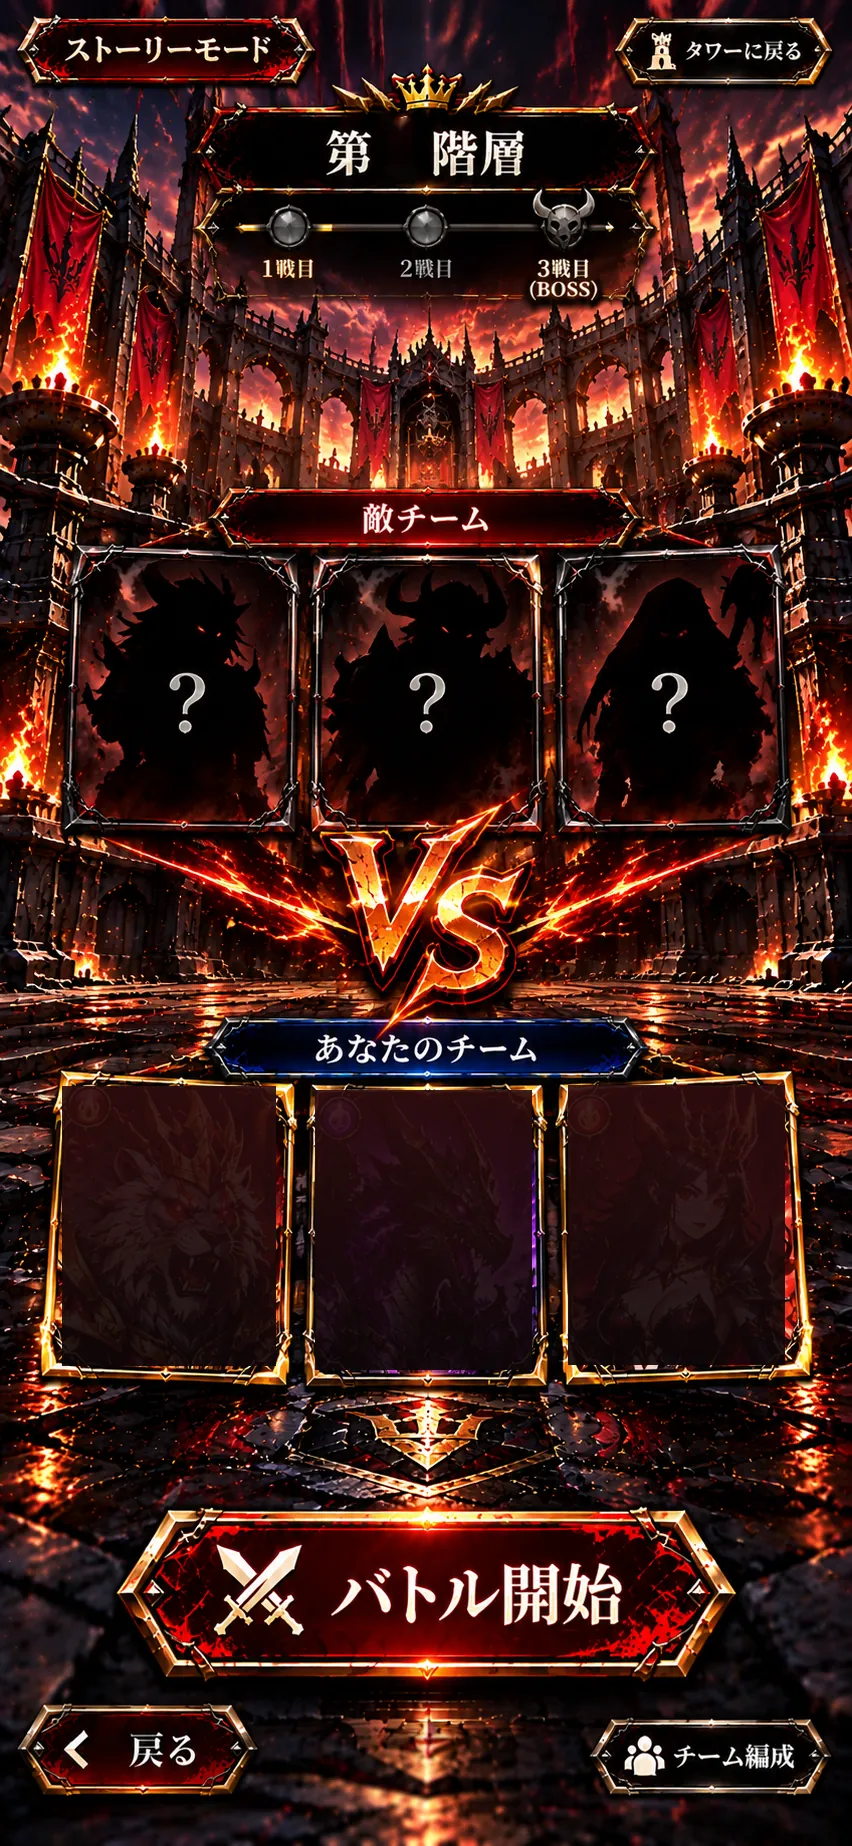
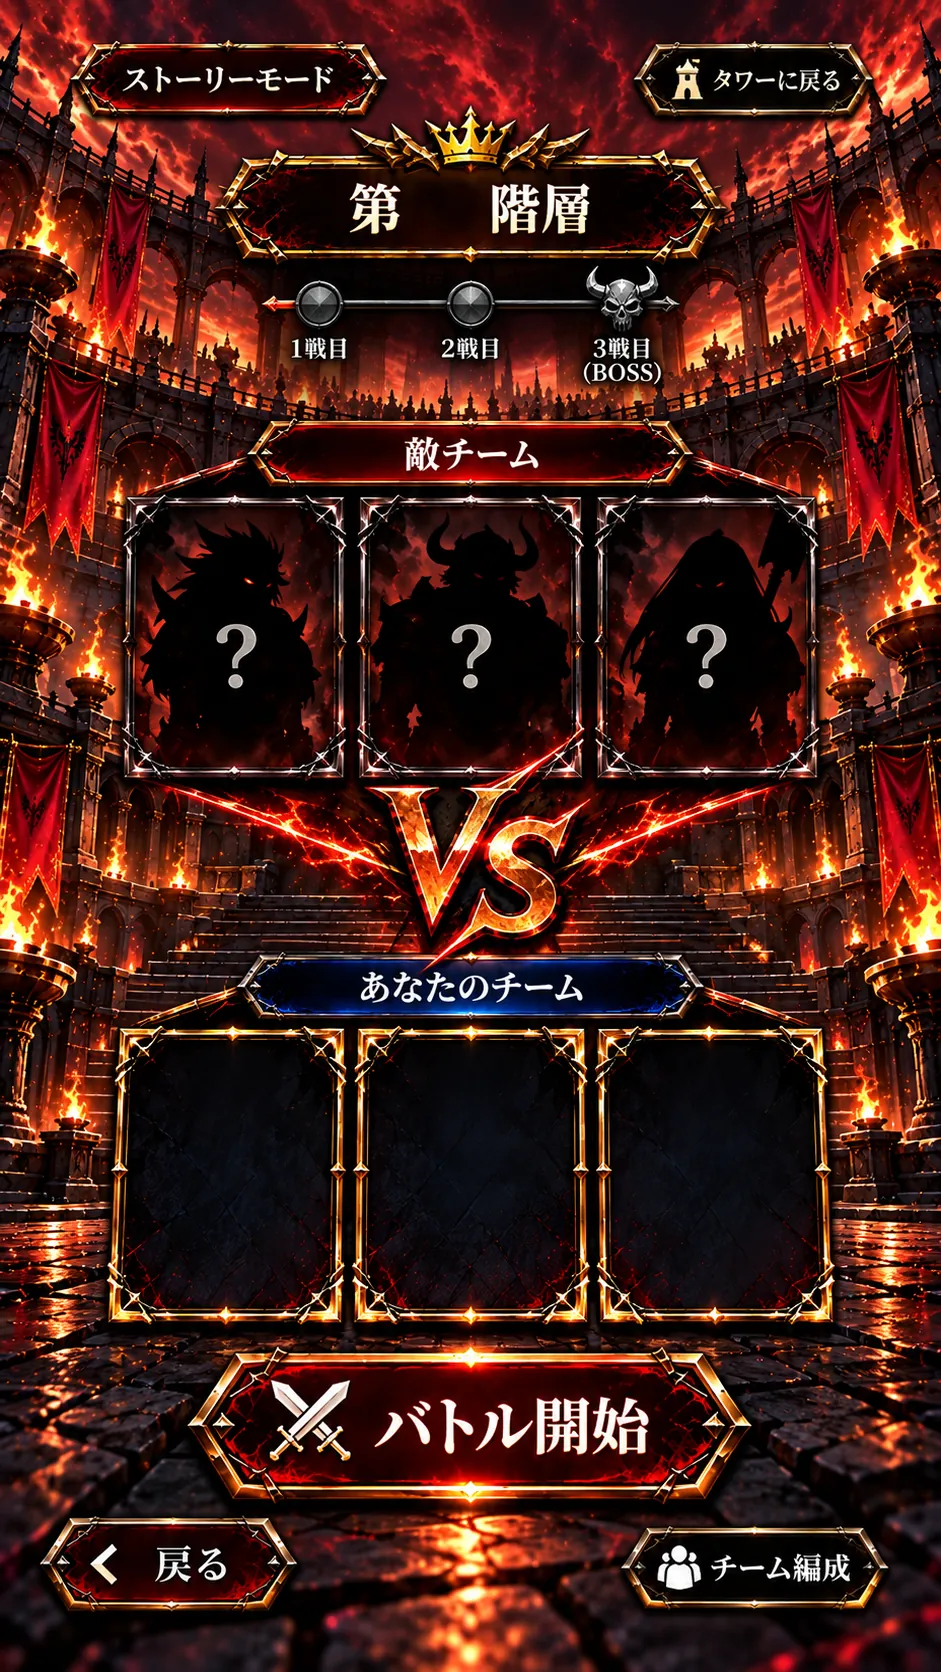
MYTHCLASH: 階の画面（進行画面）の絵を企画者の新しい絵（9:16）に差しかえ
- 前の絵と make_floor.py は design/mythclash/unused/ に残した
- 数字・光った玉・自分のデッキの位置を新しい絵に合わせた

Claude-Session: https://claude.ai/code/session_01MXithgTc5umkveoyZShZHQ

diff --git a/src/scenes/MythFloorScene.ts b/src/scenes/MythFloorScene.ts
@@ -11,32 +11,32 @@ import { canvasTextureOnce, UI_FONT } from '../ui/paint';
 import { fillSize, watchViewport } from '../ui/viewport';
 
 /**
- * 企画者の「階に入ったときの画面」の絵(design/mythclash/floor.png・852x1846。2026-10-27)。
- * make_floor.py で「第1階層」の数字・1戦目の光った玉・見本のカードを消した背景(floor.webp)と、光った玉(floor_parts.webp)を作る
+ * 企画者の「階に入ったときの画面」の絵(design/mythclash/floor.png・941x1672(9:16)。2026-10-27 に新しい絵へ差しかえ。前の絵は unused/)。
+ * 新しい絵は「第　階層」の数字が空いていて、玉は光っておらず、あなたのチームの枠は空。make_floor.py で背景(floor.webp)と、光った玉(floor_parts.webp・前の絵の玉)を作る
  */
 export const MYTH_FLOOR_IMAGE = 'myth:floor';
 export const MYTH_FLOOR_FILE = 'assets/mythclash/floor.webp';
 export const MYTH_FLOOR_ORB = 'myth:floorOrb';
 export const MYTH_FLOOR_ORB_FILE = 'assets/mythclash/floor_parts.webp';
-const ART = { w: 852, h: 1846 };
+const ART = { w: 941, h: 1672 };
 const PORTRAIT = { w: 720, h: 1280 };
 /** 絵の座標 */
-const DIGIT = { x: 401, y: 153 };
+const DIGIT = { x: 432, y: 210 };
 const NODES = [
-  { x: 288, y: 222 },
-  { x: 425, y: 222 },
-  { x: 562, y: 218 },
+  { x: 320, y: 303 },
+  { x: 470, y: 303 },
+  { x: 625, y: 300 },
 ];
 const SLOTS = [
-  [62, 1086, 276, 1366],
-  [315, 1090, 532, 1370],
-  [568, 1085, 785, 1365],
+  [125, 1040, 337, 1305],
+  [368, 1040, 580, 1305],
+  [610, 1040, 822, 1305],
 ] as const;
 const ZONES = {
-  start: [120, 1510, 735, 1680],
-  back: [20, 1705, 255, 1795],
-  team: [590, 1718, 830, 1795],
-  tower: [612, 14, 832, 86],
+  start: [200, 1355, 745, 1490],
+  back: [45, 1515, 290, 1610],
+  team: [625, 1525, 885, 1610],
+  tower: [640, 45, 870, 115],
 } as const;
 const SERIF = '"Hiragino Mincho ProN", "Yu Mincho", "Noto Serif JP", serif';
 const cardKey = (id: number) => `mc:card:${id}`;
@@ -73,8 +73,8 @@ export class MythFloorScene extends Phaser.Scene {
     this.scale.setGameSize(size.w, size.h);
     this.k = Math.max(size.w / ART.w, size.h / ART.h);
     this.ox = (size.w - ART.w * this.k) / 2;
-    // 画面いっぱい(企画者 2026-10-27「画面いっぱいでいい」)。上下が切れるときは、下のボタン・1階が残るように 上を多めに切る
-    this.oy = (size.h - ART.h * this.k) * 0.75;
+    // 画面いっぱい(企画者 2026-10-27「画面いっぱいでいい」)
+    this.oy = (size.h - ART.h * this.k) / 2;
   }
 
   preload(): void {
@@ -100,7 +100,7 @@ export class MythFloorScene extends Phaser.Scene {
 
     // 第○階層
     this.add
-      .text(this.px(DIGIT.x), this.py(DIGIT.y), String(this.match.floor), { fontFamily: SERIF, fontSize: `${Math.round((this.match.floor >= 10 ? 56 : 74) * k)}px`, fontStyle: '900', color: '#ffd04a', stroke: '#3a1a04', strokeThickness: Math.max(2, 5 * k) })
+      .text(this.px(DIGIT.x), this.py(DIGIT.y), String(this.match.floor), { fontFamily: SERIF, fontSize: `${Math.round((this.match.floor >= 10 ? 50 : 64) * k)}px`, fontStyle: '900', color: '#ffd04a', stroke: '#3a1a04', strokeThickness: Math.max(2, 5 * k) })
       .setOrigin(0.5)
       .setShadow(0, 0, '#ff9a20', 16 * k, false, true);
 

diff --git a/design/mythclash/make_floor.py b/design/mythclash/make_floor.py
@@ -1,16 +1,12 @@
 """
-ストーリーモードの「階に入ったときの画面」(企画者の絵 floor.png 2026-10-27)を、ゲームで使う形にする。
-- 背景 → public/assets/mythclash/floor.webp
-  - 「第1階層」の「1」を消す(何階かは ゲームの中で書く)
-  - 1戦目の光った玉を、2戦目と同じ灰色の玉にする(今の戦いの玉は ゲームの中で重ねる)
-  - 「あなたのチーム」の3つの枠の中(見本の絵と属性のマーク)を暗くする(自分のデッキのカードを ゲームの中で入れる)
-- 部品 → public/assets/mythclash/floor_parts.webp: 光った玉(1戦目の玉。まわりはとうめい)
-絵そのものは描き直さない。元の絵のピクセルを使う。
+ストーリーモードの「階に入ったときの画面」(企画者の新しい絵 floor.png 941x1672・2026-10-27。前の絵は unused/)を、ゲームで使う形にする。
+- 背景 → public/assets/mythclash/floor.webp(絵のまま。「第　階層」の数字は空いていて、玉は光っていない。あなたのチームの枠の中は空)
+- 部品 → public/assets/mythclash/floor_parts.webp: 光った玉(前の絵の1戦目の玉。まわりはとうめい)
+絵そのものは描き直さない。
 使い方: python3 -I design/mythclash/make_floor.py
 """
 import os
 
-import cv2
 import numpy as np
 from PIL import Image
 
@@ -18,49 +14,14 @@ HERE = os.path.dirname(os.path.abspath(__file__))
 ROOT = os.path.dirname(os.path.dirname(HERE))
 OUT = os.path.join(ROOT, 'public/assets/mythclash')
 
-DIGIT = (378, 120, 424, 186)
-NODES = [(288, 222), (425, 222), (562, 218)]
-ORB_R = 36
-SLOTS = [(62, 1086, 276, 1366), (315, 1090, 532, 1370), (568, 1085, 785, 1365)]
+Image.open(os.path.join(HERE, 'floor.png')).convert('RGB').save(os.path.join(OUT, 'floor.webp'), 'WEBP', quality=80, method=6)
 
-img = np.array(Image.open(os.path.join(HERE, 'floor.png')).convert('RGB'))
-out = img.copy()
-
-# 光った玉を取り出す(まわりはぼかしてとうめいに)
-cx, cy = NODES[0]
-yy, xx = np.mgrid[-ORB_R:ORB_R, -ORB_R:ORB_R]
+# 光った玉: 前の絵の1戦目の玉(中心 288,222)
+old = np.array(Image.open(os.path.join(HERE, 'unused/floor_2026-10-27_old.png')).convert('RGB'))
+cx, cy, r = 288, 222, 36
+yy, xx = np.mgrid[-r:r, -r:r]
 d = np.sqrt(xx**2 + yy**2)
-alpha = np.clip((ORB_R - d) / 10, 0, 1)
-orb = img[cy - ORB_R:cy + ORB_R, cx - ORB_R:cx + ORB_R].astype(float)
-# 光っていない所(暗い線)は、すけるように
-lum = orb.mean(axis=2) / 255
-alpha = alpha * np.clip((lum - 0.12) * 2.5, 0, 1)
-orb_rgba = np.dstack([orb, alpha * 255]).astype(np.uint8)
-
-# 1戦目の玉を、2戦目の玉(灰色)にする
-nx, ny = NODES[1]
-patch = img[ny - ORB_R:ny + ORB_R, nx - ORB_R:nx + ORB_R].astype(float)
-a = np.clip((ORB_R - d) / 8, 0, 1)[..., None]
-region = out[cy - ORB_R:cy + ORB_R, cx - ORB_R:cx + ORB_R].astype(float)
-out[cy - ORB_R:cy + ORB_R, cx - ORB_R:cx + ORB_R] = (patch * a + region * (1 - a)).astype(np.uint8)
-
-# 「1」を消す(金色の所)
-x0, y0, x1, y1 = DIGIT
-mask = np.zeros(img.shape[:2], np.uint8)
-reg = img[y0:y1, x0:x1].astype(int)
-gold = (reg[..., 0] > 120) & (reg[..., 0] - reg[..., 2] > 40)
-mask[y0:y1, x0:x1] = gold.astype(np.uint8) * 255
-mask = cv2.dilate(mask, np.ones((3, 3), np.uint8), iterations=3)
-out = cv2.cvtColor(cv2.inpaint(cv2.cvtColor(out, cv2.COLOR_RGB2BGR), mask, 6, cv2.INPAINT_TELEA), cv2.COLOR_BGR2RGB)
-
-# チームの枠の中を暗く(上は少し赤く)
-for x0, y0, x1, y1 in SLOTS:
-    h = y1 - y0
-    g = np.linspace(0, 1, h)[:, None, None]
-    col = np.array([46, 12, 14]) * (1 - g) + np.array([14, 6, 8]) * g
-    base = out[y0:y1, x0:x1].astype(float)
-    out[y0:y1, x0:x1] = (col * 0.92 + base * 0.08).astype(np.uint8)
-
-Image.fromarray(out).save(os.path.join(OUT, 'floor.webp'), 'WEBP', quality=80, method=6)
-Image.fromarray(orb_rgba, 'RGBA').save(os.path.join(OUT, 'floor_parts.webp'), 'WEBP', quality=90, method=6)
+orb = old[cy - r:cy + r, cx - r:cx + r].astype(float)
+alpha = np.clip((r - d) / 10, 0, 1) * np.clip((orb.mean(axis=2) / 255 - 0.12) * 2.5, 0, 1)
+Image.fromarray(np.dstack([orb, alpha * 255]).astype(np.uint8), 'RGBA').save(os.path.join(OUT, 'floor_parts.webp'), 'WEBP', quality=90, method=6)
 print('ok')

diff --git a/design/mythclash/unused/make_floor_old.py b/design/mythclash/unused/make_floor_old.py
@@ -1,0 +1,67 @@
+# 前の「階の画面」の絵(floor_2026-10-27_old.png)用。企画者の新しい絵に差しかえたので、もう使わない(2026-10-27)
+"""
+ストーリーモードの「階に入ったときの画面」(企画者の絵 floor.png 2026-10-27)を、ゲームで使う形にする。
+- 背景 → public/assets/mythclash/floor.webp
+  - 「第1階層」の「1」を消す(何階かは ゲームの中で書く)
+  - 1戦目の光った玉を、2戦目と同じ灰色の玉にする(今の戦いの玉は ゲームの中で重ねる)
+  - 「あなたのチーム」の3つの枠の中(見本の絵と属性のマーク)を暗くする(自分のデッキのカードを ゲームの中で入れる)
+- 部品 → public/assets/mythclash/floor_parts.webp: 光った玉(1戦目の玉。まわりはとうめい)
+絵そのものは描き直さない。元の絵のピクセルを使う。
+使い方: python3 -I design/mythclash/make_floor.py
+"""
+import os
+
+import cv2
+import numpy as np
+from PIL import Image
+
+HERE = os.path.dirname(os.path.abspath(__file__))
+ROOT = os.path.dirname(os.path.dirname(HERE))
+OUT = HERE  # 前の絵用。もう使わない
+
+DIGIT = (378, 120, 424, 186)
+NODES = [(288, 222), (425, 222), (562, 218)]
+ORB_R = 36
+SLOTS = [(62, 1086, 276, 1366), (315, 1090, 532, 1370), (568, 1085, 785, 1365)]
+
+img = np.array(Image.open(os.path.join(HERE, 'floor_2026-10-27_old.png')).convert('RGB'))
+out = img.copy()
+
+# 光った玉を取り出す(まわりはぼかしてとうめいに)
+cx, cy = NODES[0]
+yy, xx = np.mgrid[-ORB_R:ORB_R, -ORB_R:ORB_R]
+d = np.sqrt(xx**2 + yy**2)
+alpha = np.clip((ORB_R - d) / 10, 0, 1)
+orb = img[cy - ORB_R:cy + ORB_R, cx - ORB_R:cx + ORB_R].astype(float)
+# 光っていない所(暗い線)は、すけるように
+lum = orb.mean(axis=2) / 255
+alpha = alpha * np.clip((lum - 0.12) * 2.5, 0, 1)
+orb_rgba = np.dstack([orb, alpha * 255]).astype(np.uint8)
+
+# 1戦目の玉を、2戦目の玉(灰色)にする
+nx, ny = NODES[1]
+patch = img[ny - ORB_R:ny + ORB_R, nx - ORB_R:nx + ORB_R].astype(float)
+a = np.clip((ORB_R - d) / 8, 0, 1)[..., None]
+region = out[cy - ORB_R:cy + ORB_R, cx - ORB_R:cx + ORB_R].astype(float)
+out[cy - ORB_R:cy + ORB_R, cx - ORB_R:cx + ORB_R] = (patch * a + region * (1 - a)).astype(np.uint8)
+
+# 「1」を消す(金色の所)
+x0, y0, x1, y1 = DIGIT
+mask = np.zeros(img.shape[:2], np.uint8)
+reg = img[y0:y1, x0:x1].astype(int)
+gold = (reg[..., 0] > 120) & (reg[..., 0] - reg[..., 2] > 40)
+mask[y0:y1, x0:x1] = gold.astype(np.uint8) * 255
+mask = cv2.dilate(mask, np.ones((3, 3), np.uint8), iterations=3)
+out = cv2.cvtColor(cv2.inpaint(cv2.cvtColor(out, cv2.COLOR_RGB2BGR), mask, 6, cv2.INPAINT_TELEA), cv2.COLOR_BGR2RGB)
+
+# チームの枠の中を暗く(上は少し赤く)
+for x0, y0, x1, y1 in SLOTS:
+    h = y1 - y0
+    g = np.linspace(0, 1, h)[:, None, None]
+    col = np.array([46, 12, 14]) * (1 - g) + np.array([14, 6, 8]) * g
+    base = out[y0:y1, x0:x1].astype(float)
+    out[y0:y1, x0:x1] = (col * 0.92 + base * 0.08).astype(np.uint8)
+
+Image.fromarray(out).save(os.path.join(OUT, 'floor.webp'), 'WEBP', quality=80, method=6)
+Image.fromarray(orb_rgba, 'RGBA').save(os.path.join(OUT, 'floor_parts.webp'), 'WEBP', quality=90, method=6)
+print('ok')

diff --git a/docs/MYTHCLASH.md b/docs/MYTHCLASH.md
@@ -139,6 +139,10 @@
 - バトルメニューの MYTHCLASH の看板も、新しいタイトルの絵のロゴの所を使う。
 - 【仮】うめた所は完全ではない。ロゴの無い元の絵があれば、もっときれいに作り直せる。
 
+### 階の画面（進行画面）の絵を新しい絵に差しかえ（2026-10-27）【確定】
+- 企画者の新しい絵（9:16・941×1672）→ `design/mythclash/floor.png`。前の絵と `make_floor.py` は `design/mythclash/unused/`。
+- 新しい絵は「第　階層」の数字の所が空き、玉は光っていない、あなたのチームの枠は空なので、絵は消さずにそのまま使う。数字・光った玉（前の絵の玉）・自分のデッキは前と同じように重ねる。画面いっぱい（細長い画面では左右が少し切れる）。
+
 ### タワーの絵を新しい絵に差しかえ（2026-10-27）【確定】
 - 「上と下が狭い」→ 企画者が ChatGPT で新しい絵を作った（9:16・941×1672。札は全部同じ暗い色、鍵や光は描いていない）→ `design/mythclash/tower.png`。前の絵と `make_tower.py` は `design/mythclash/unused/`。
 - 画面いっぱい（タイトルと同じ）。今の絵は前より横に広いので、細長い画面では左右が少し切れる。左の説明の枠が切れないように、左は少しだけ切る。

diff --git a/docs/VISION.md b/docs/VISION.md
@@ -170,3 +170,4 @@
 - 2026-10-27：MYTHCLASH の経験値（バトル勝ち 5・10・20、タワーはじめて 20×階・2回目から2割）と各階の相手のカードは企画者「OK」で確定。タワーと階の画面は絵を全部画面に入れる（はしを切らない）
 - 2026-10-27：MYTHCLASH のタワー・階の画面は、企画者「画面いっぱいでいい」でタイトルと同じ 画面いっぱい にもどした（上下が切れるときは上を多めに切って、下のボタンを残す）
 - 2026-10-27：MYTHCLASH のタワーの絵を、企画者の新しい絵（9:16）に差しかえた。前の絵は `design/mythclash/unused/`
+- 2026-10-27：MYTHCLASH の階の画面（進行画面）の絵を、企画者の新しい絵（9:16）に差しかえた。前の絵は `design/mythclash/unused/`
